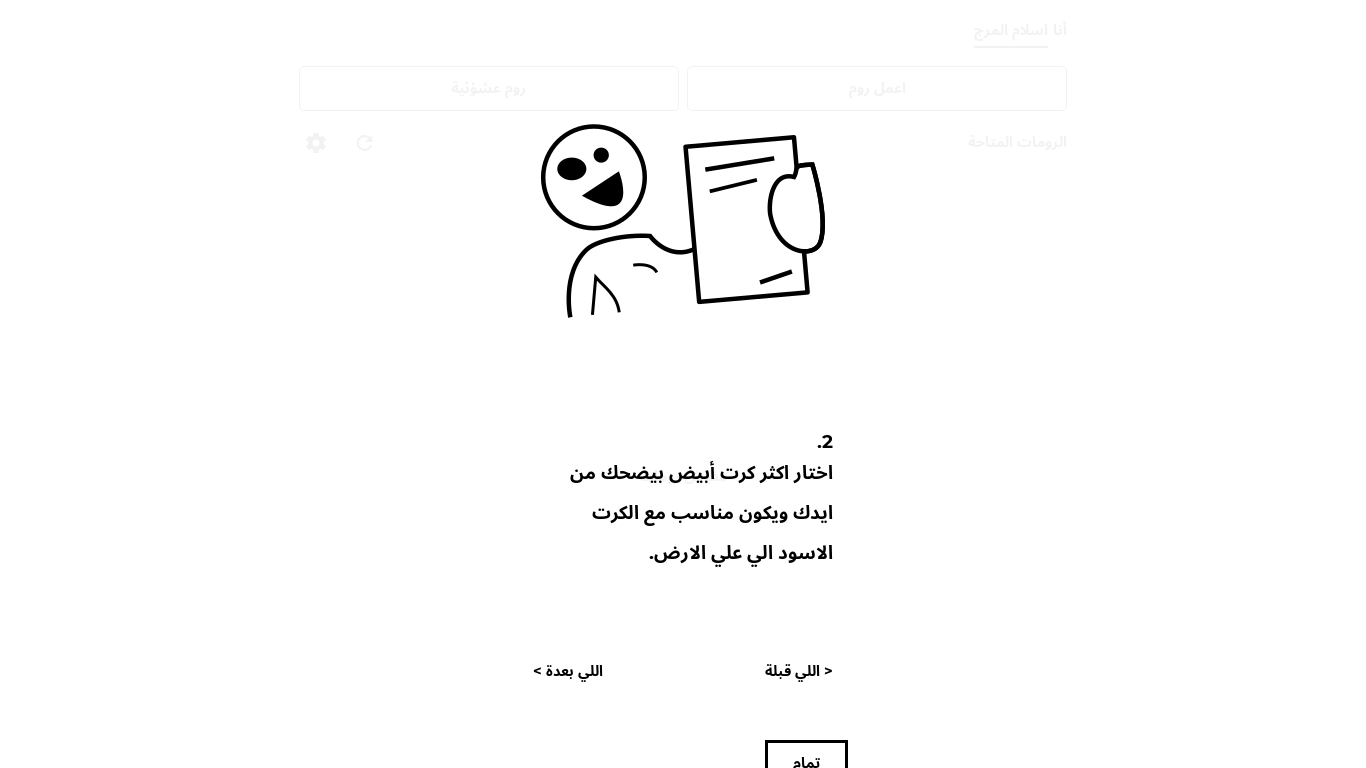
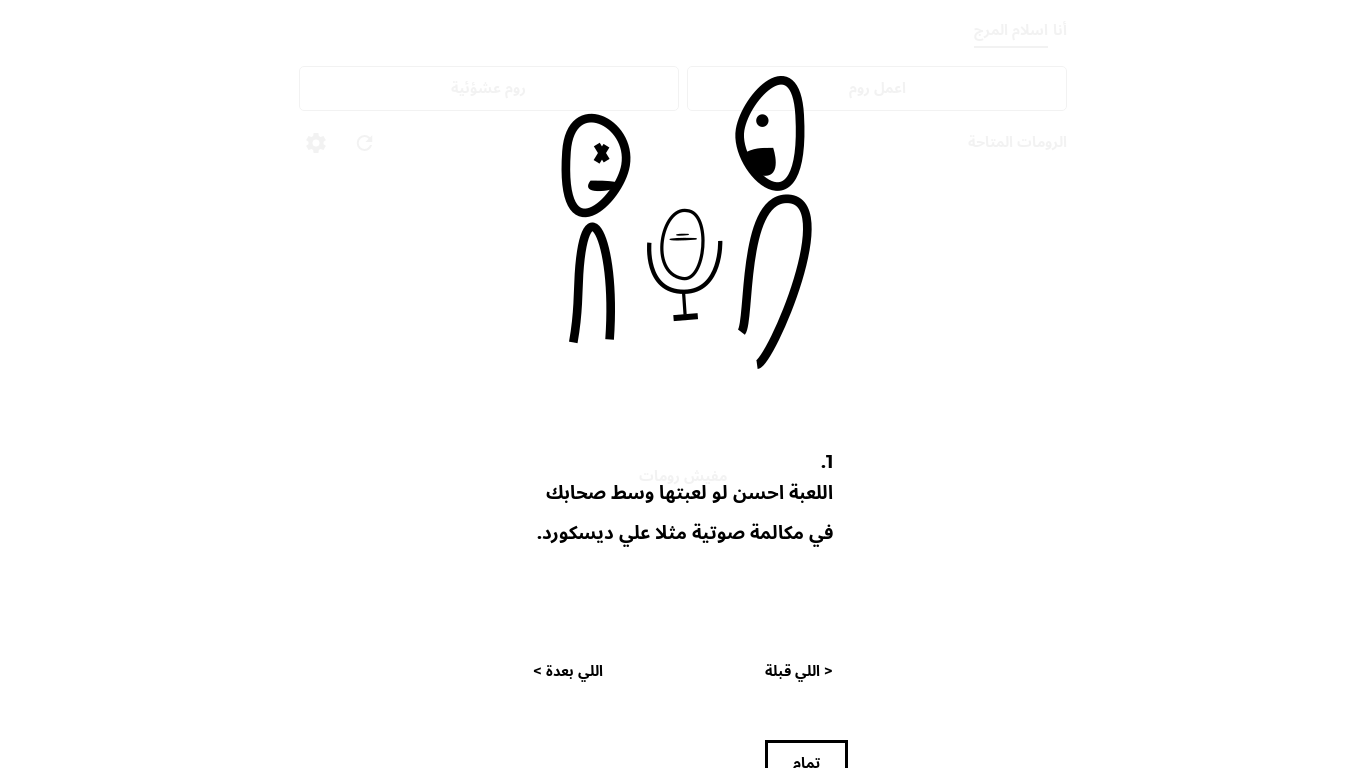
removed the tutorial interrval from the test environment

Changed region(s): [[0.369, 0.0938, 0.6149, 0.4688], [0.3997, 0.5625, 0.6149, 0.75]]

diff --git a/src/components/tutorialKuruit.js b/src/components/tutorialKuruit.js
@@ -24,6 +24,9 @@ const Tutorial = () =>
 
   useEffect(() =>
   {
+    if (process.env.NODE_ENV === 'test')
+      return;
+    
     const interval = setInterval(() =>
     {
       let next = index + 1;
